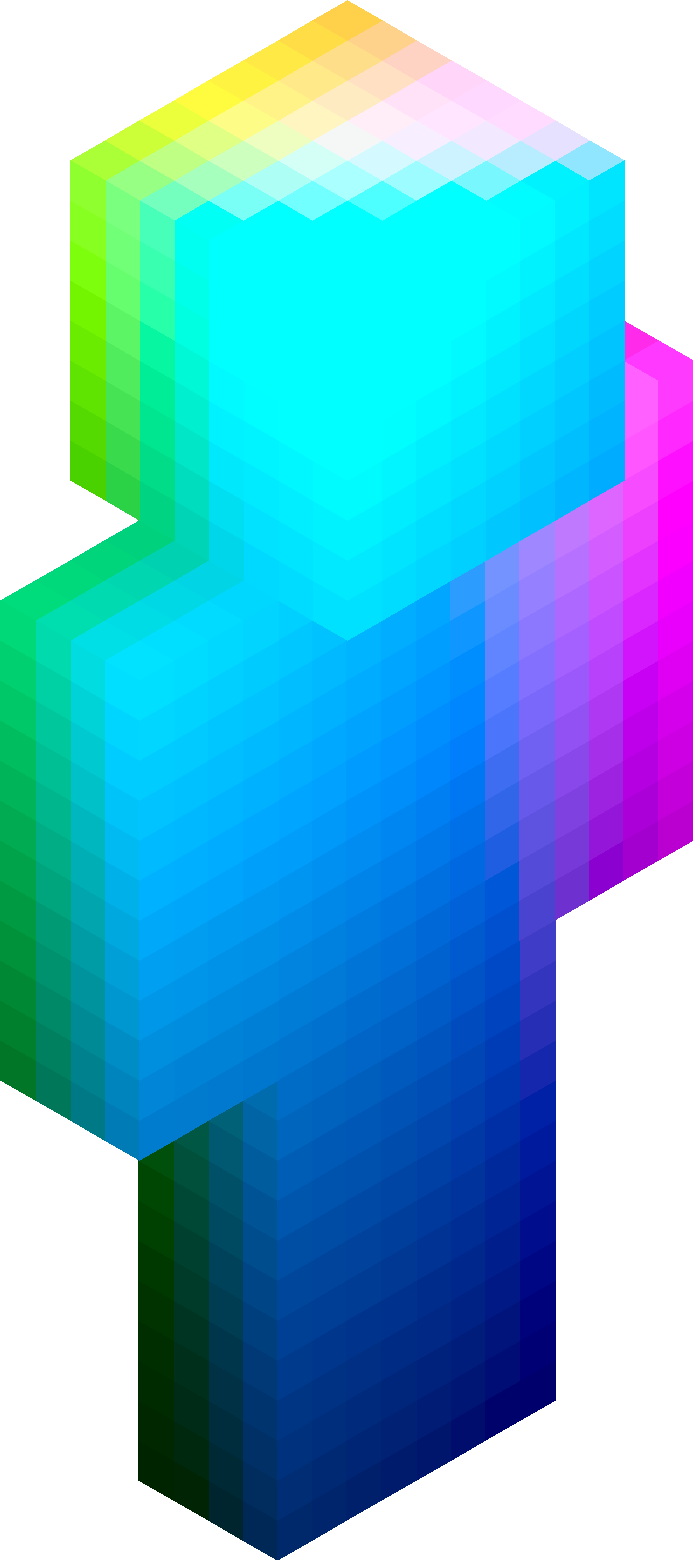
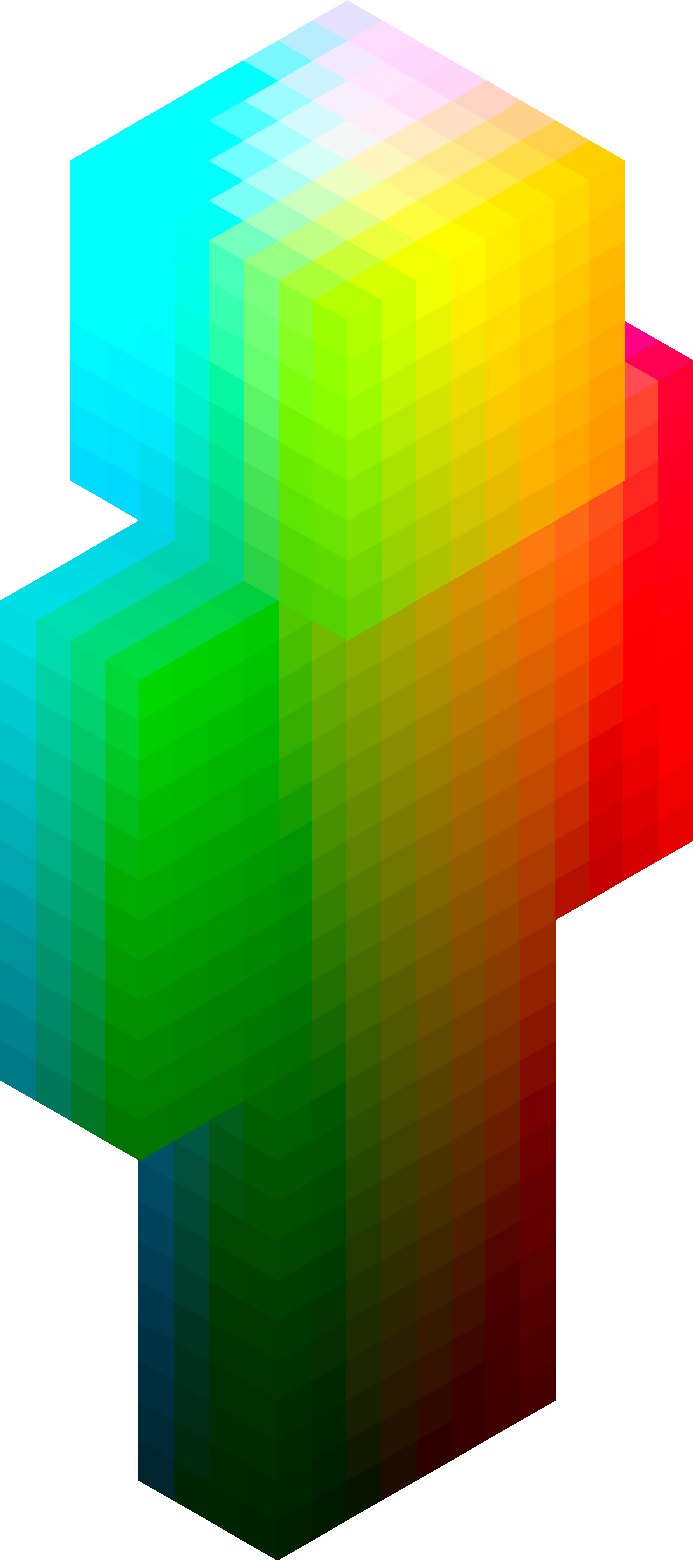
invert a* axis in lab generation

diff --git a/examples/skins.py b/examples/skins.py
@@ -205,7 +205,7 @@ def generate_lab_space():
 
     l_space = FencedSpace.new((0, 100), z_max + 1, "z")
     a_space = FencedSpace.new((-128, 127), x_max + 1, "x")
-    b_space = FencedSpace.new((-128, 127), y_max + 1, "y")
+    b_space = FencedSpace.new((127, -128), y_max + 1, "y")
 
     for (x, y, z), _, face_id, _ in skin.enumerate_color():
         lab = (
